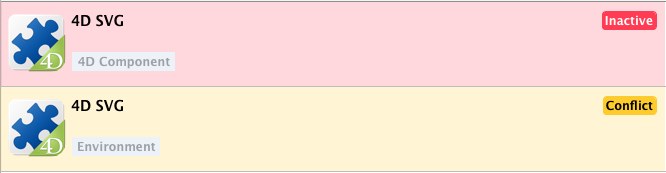
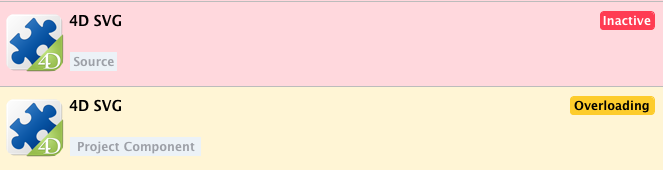
final draft

Changed region(s): [[0.0, 0.0, 1.0, 1.0], [0.0, 0.5588, 0.3017, 0.9412], [0.0, 0.0882, 0.2715, 0.4412]]

diff --git a/docs/Project/components.md b/docs/Project/components.md
@@ -130,22 +130,29 @@ This item is not displayed if the dependency is inactive because its files are n
 :::
 
 
-### Dependency Status
+### Filtering Dependencies
 
-A project dependency can have different status in the current configuration. You can filter dependencies according to their status by selecting the appropriate tab at the top of the Dependencies panel:
+By default, all dependencies identified by the Dependency manager are listed, whatever their [status](#dependency-status). You can filter the displayed dependencies according to their status by selecting the appropriate tab at the top of the Dependencies panel:
 
 ![dependency-tabs](../assets/en/Project/dependency-tabs.png)
 
-- **Active**: the dependency is correctly loaded and can be used in the project.
-- **Inactive**: the dependency is not loaded in the project and is not available. There are many possible reasons for this status: conflict with another component (see below), missing files, version incompatibility...
-- **Conflict**: the dependency is loaded but is in conflict with at least one other dependency (same name at another location). Dependencies in conflict are grouped so that you can check the origin of the conflict and take appropriate actions.
+- **Active**: Dependencies that are loaded and can be used in the project. It includes *overloading* dependencies, which are actually loaded. *Overloaded* dependencies are listed in the **Conflicts** panel, along with all conflicting dependencies.
+- **Inactive**: Dependencies that are not loaded in the project and are not available. There are many possible reasons for this status: conflict with another component, missing files, version incompatibility...
+- **Conflict**: Dependencies that are loaded but are in conflict with at least one other dependency (same name at another location). Dependencies in conflict are grouped so that you can check the origin of the conflict and take appropriate actions.
 
+### Dependency Status
 
-Dependencies requiring the developer's attention (**Inactive** and **Conflict**) are indicated by a label at the right side of the line and a specific background color:
+Dependencies requiring the developer's attention are indicated by a **status label** at the right side of the line and a specific background color:
 
 ![dependency-status](../assets/en/Project/dependency-conflict2.png)
 
+The following status labels are available:
+- **Overloaded**: The dependency is not loaded because it is overloaded by another dependency with the same name at a higher priority in the loading sequence.  
+- **Overloading**: The dependency is loaded and is overloading one or more other dependencies with the same name at a lower priority in the loading sequence.
+- **Not found**: The dependency is declared in the dependencies.json file but is not found.
+- **Inactive**: The dependency is not loaded because it is not compatible with the project (e.g. the component is not compiled for the current platform).
+- **Duplicated**: The dependency is not loaded because another dependency with the same name exists at the same location (and is loaded).  
 
-In case of inactive or conflict status, a tooltip is displayed when you hover over the dependency line, detailing the reason for this status:
+A tooltip is displayed when you hover over the dependency line, provding additional information about the status:
 
 ![dependency-tips](../assets/en/Project/dependency-tip1.png)
